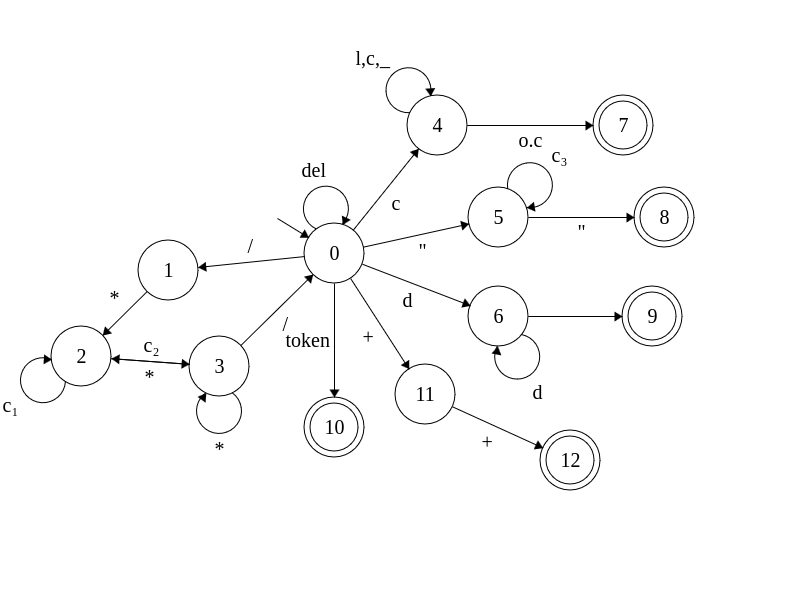
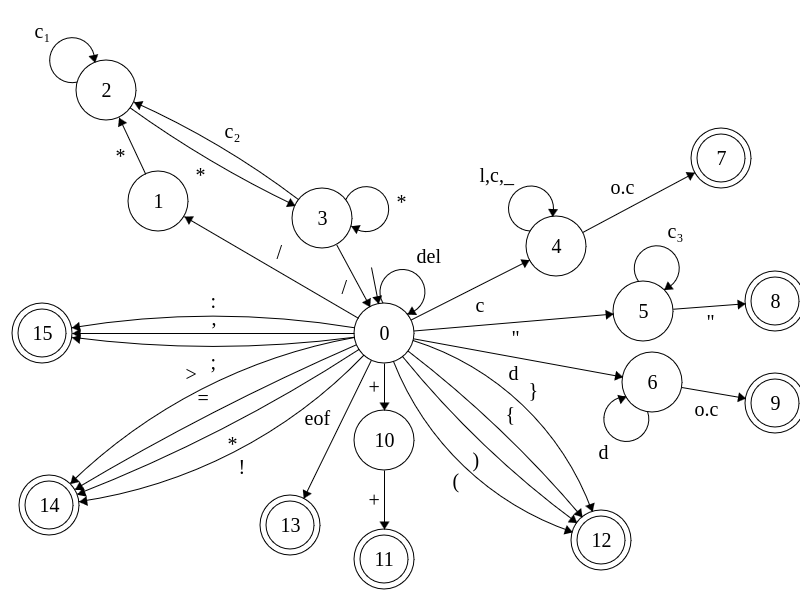
afd done and most trivial cases done

diff --git a/src/Lexer.java b/src/Lexer.java
@@ -6,83 +6,135 @@ import java.io.IOException;
 public class Lexer{
     private BufferedReader reader;
     private TSHandler tsHandler;
-    private int linea_fichero_fuente;
-	//FIXME: yo creo que debería ser local de read y simplemente pasar el valor a los métodos que lo necesiten
-    private int c;
+    private int lineCount;
+	private int c;
 
     public Lexer(String fileName, TSHandler tsHandler) throws FileNotFoundException, IOException {
         reader = new BufferedReader(new FileReader(fileName));
         this.tsHandler = tsHandler;
-        linea_fichero_fuente = 1;
-        c = reader.read();
+        lineCount = 1;
+		c = reader.read();
     }
 
 	public Pair<Token, Object> scan() throws LexerException, IOException {
 		//Saltar todos los delimitadores
-		Pair<Token, Object> token = whiteSpaces();
-		if(token != null){
-			return token;
-		}
-		else if(c == '/'){ // Paso del estado 0 al 1 del AFD
-			comentario();
-		}
-		switch(c){
+		int c = readSuperflous();
+		if(c == -1)
+			return new Pair<Token, Object>(Token.EOF, null);
+		else if (Character.isLetter(c))
+			return words();
+		else if (Character.isDigit(c))
+			return cteEntera();
+		switch (c) {
+			case '+':
+				c = reader.read();
+				if (c == '+') 
+					return new Pair<Token, Object>(Token.AUTOINCREMENTO, null);
+				else 
+					throw new LexerException(
+						"Caracter no valido en la linea " + lineCount + " se esperaba un +");
+			case '=':
+				return new Pair<Token, Object>(Token.ASIG, null);
+			case ',':
+				return new Pair<Token, Object>(Token.COMA, null);
+			case ';':
+				return new Pair<Token, Object>(Token.EOS, null);
+			case ':':
+				return new Pair<Token, Object>(Token.DosPUNTOS, null);
+			case '(':
+				return new Pair<Token, Object>(Token.ParentesisABRE, null);
+			case ')':
+				return new Pair<Token, Object>(Token.ParentesisCIERRA, null);
+			case '{':
+				return new Pair<Token, Object>(Token.LlaveABRE, null);
+			case '}':
+				return new Pair<Token, Object>(Token.LlaveCIERRA, null);
 			case '*':
 				return new Pair<Token, Object>(Token.MULT, null);
+			case '!':
+				return new Pair<Token, Object>(Token.NOT, null);
+			case '>':
+				return new Pair<Token, Object>(Token.MAYOR, null);
 			//TODO: completar con los otros tokens
 			default:
 		}
 		//FIXME: placeholder para evitar error de compilación
-		return token;
-	}
-	
-	//FIXME: esta parte la dejaría dentro de scan(), es una funcion practicamente superflua
-	private Pair<Token, Object> whiteSpaces() throws IOException { //Estado 0 del AFD y EOF
-		while(c != -1 && Character.isWhitespace(c)){ 
-			c = reader.read();
-		}
-		if(c == -1){
-			return new Pair<Token, Object>(Token.EOF, null);
-		}
 		return null;
 	}
-	
-	private Pair<Token, Object> comentario() throws LexerException, IOException{ //Inicio: estado 1 del AFD
-		//Si no viene un * después de un /
-		c = reader.read();
-		if(c != '*') {
-			throw new LexerException(
-				"Caracter no valido en la linea " + linea_fichero_fuente + " se esperaba un *");
-		}
-		//FIXME: no es necesario el else, si tira excepción no se ejecuta el resto del código
-		else { //Estado 2 del AFD
-			while(true) { //Estado 2 del AFD
+
+	private int readSuperflous() throws IOException, LexerException {
+		while (c != -1) {
+			if (c == '/') {//Estado 1 del AFD
 				c = reader.read();
-				if(c == '*') { //Estado 3 del AFD: Lee hasta el ultimo * que encuentre seguido	
-					while(c == '*')
-						c = reader.read();
-					if(c == '/')
-						break; //Paso del estado3 al 0:Termina de leer un comentario
-				}//Paso del estado 3 al estado 2: Si no ha terminado de leer
-			}
+				if(c != '*') 
+					throw new LexerException(
+						"Caracter no valido en la linea " + lineCount + " se esperaba un *");
+				while(c != -1) { //Estado 2 del AFD
+					c = reader.read();
+					if (c == '\n') {
+						++lineCount;
+						continue;
+					} else if(c == '*') { //Estado 3 del AFD: Lee hasta el ultimo * que encuentre seguido	
+						while(c == '*')
+							c = reader.read();
+						if(c == '/')
+							break; //Paso del estado3 al 0:Termina de leer un comentario
+					}//Paso del estado 3 al estado 2: Si no ha terminado de leer
+				}
+			} else if(c == '\n')
+				++lineCount;
+			else if (!Character.isWhitespace(c))
+				return c;//Hemos llegado a un elemento no superfluo
+			c = reader.read();
 		}
-		//FIXME: No creo que se deba ejecutar esto aquí, yo haría un bucle de reconocimiento en scan y ya
-		Pair<Token, Object> token = whiteSpaces();
-		if(token != null){
-			return token;
-		}
-		return token;
+		return c;
 	}
 	
-	private Pair<Token, Object> words(){ //Estado 4 del AFD
-		Pair<Token, Object> token = null;
+	private Pair<Token, Object> words() throws IOException{ //Estado 4 del AFD
 		String str = "";
-		//FIXME: creo que estas corrompiendo las cadenas con este método
-		for(char ch: Character.toChars(c)) {
-			str = str + ch;
+		//Podemos poner el '_' de primeras porque ya hemos comprovado que el primero sea una letra
+		while (Character.isLetterOrDigit(c) || c == '_') {
+			//FIXME: comprobar con caracteres raros
+			str = str + c;
+			c = reader.read();
 		}
-		
-		return token;
+		switch (str) {
+			case "boolean":
+				return new Pair<Token, Object>(Token.BOOLEAN, null);
+				case "break":
+					return new Pair<Token, Object>(Token.BREAK, null);
+			case "case":
+				return new Pair<Token, Object>(Token.CASE, null);
+			case "function":
+				return new Pair<Token, Object>(Token.FUNCTION, null);
+			case "if":
+				return new Pair<Token, Object>(Token.IF, null);
+			case "input":
+				return new Pair<Token, Object>(Token.INPUT, null);
+			case "integer":
+				return new Pair<Token, Object>(Token.INTEGER, null);
+			case "output":
+				return new Pair<Token, Object>(Token.OUTPUT, null);
+			case "return":
+				return new Pair<Token, Object>(Token.RETURN, null);
+			case "string":
+				return new Pair<Token, Object>(Token.STRING, null);
+			case "switch":
+				return new Pair<Token, Object>(Token.SWITCH, null);
+			case "var":
+				return new Pair<Token, Object>(Token.VAR, null);
+			case "void":
+				return new Pair<Token, Object>(Token.VOID, null);
+			case "default":
+				return new Pair<Token, Object>(Token.DEFAULT, null);
+			case "false":
+				return new Pair<Token, Object>(Token.FALSE, null);
+			case "true":
+				return new Pair<Token, Object>(Token.TRUE, null);
+			default:
+			//ºFIXME: Añadir el caso para el ID
+				return null;
+		}
 	}
 	
 	private Pair<Token, Object> cteCadena() throws IOException{ //Estado 5 del AFD
@@ -111,7 +163,7 @@ public class Lexer{
 		//FIXME: Añadir los casos para la c
 			case 1: break;
 			default: throw new LexerException(
-				"Caracter no valido leido en la linea " + linea_fichero_fuente + ": caracter no perteneciente al lenguaje");
+				"Caracter no valido leido en la linea " + lineCount + ": caracter no perteneciente al lenguaje");
 		}
 		return token;
 	}
